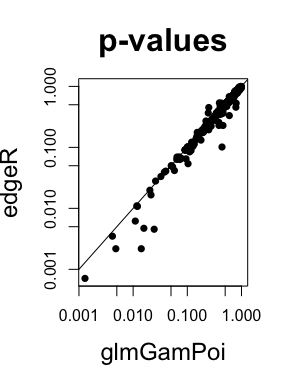
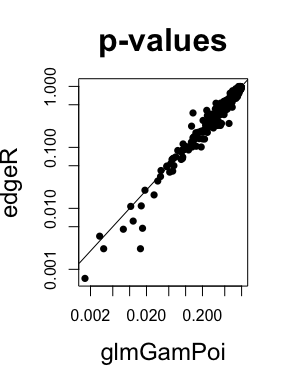
Update README and vignette

diff --git a/README.md b/README.md
@@ -121,28 +121,28 @@ summary(fit)
 #> The design formula is: Y~1
 #> 
 #> Beta:
-#>             Min 1st Qu. Median 3rd Qu.  Max
-#> Intercept -8.38   -6.43  -3.77   -2.46 1.01
+#>             Min 1st Qu. Median 3rd Qu.   Max
+#> Intercept -8.51   -6.57  -3.91   -2.59 0.903
 #> 
 #> deviance:
-#>   Min 1st Qu. Median 3rd Qu.  Max
-#>  16.5    89.3    681    1695 5750
+#>  Min 1st Qu. Median 3rd Qu.  Max
+#>   14    86.8    657    1686 5507
 #> 
 #> overdispersion:
-#>  Min 1st Qu. Median 3rd Qu.   Max
-#>    0       0  0.388    1.15 15724
+#>  Min  1st Qu. Median 3rd Qu.   Max
+#>    0 1.65e-13  0.288    1.84 24687
 #> 
 #> Shrunken quasi-likelihood overdispersion:
 #>    Min 1st Qu. Median 3rd Qu.  Max
-#>  0.739   0.994      1    1.04 7.89
+#>  0.707   0.991      1    1.04 7.45
 #> 
 #> size_factors:
 #>    Min 1st Qu. Median 3rd Qu.  Max
-#>  0.402   0.969      1    1.05 1.75
+#>  0.117   0.738   1.01    1.32 14.5
 #> 
 #> Mu:
-#>       Min 1st Qu. Median 3rd Qu. Max
-#>  9.24e-05 0.00158 0.0229  0.0871 4.8
+#>       Min 1st Qu. Median 3rd Qu.  Max
+#>  2.34e-05 0.00142 0.0185  0.0779 35.8
 ```
 
 # Benchmark
@@ -183,14 +183,14 @@ bench::mark(
 #> # A tibble: 4 x 6
 #>   expression               min   median `itr/sec` mem_alloc `gc/sec`
 #>   <bch:expr>          <bch:tm> <bch:tm>     <dbl> <bch:byt>    <dbl>
-#> 1 glmGamPoi_in_memory 875.14ms 917.36ms    0.884   462.41MB    2.95 
-#> 2 glmGamPoi_on_disk      3.92s    4.06s    0.243   839.92MB    1.37 
-#> 3 DESeq2                19.95s   20.48s    0.0489    1.15GB    0.424
-#> 4 edgeR                  5.48s    6.12s    0.169     1.19GB    0.843
+#> 1 glmGamPoi_in_memory    1.03s    1.11s    0.895   508.84MB    3.28 
+#> 2 glmGamPoi_on_disk      4.11s    4.18s    0.234   837.42MB    1.32 
+#> 3 DESeq2                20.11s   20.23s    0.0494    1.16GB    0.396
+#> 4 edgeR                  5.37s    5.42s    0.180     1.19GB    1.50
 ```
 
-On this dataset, `glmGamPoi` is more than 6 times faster than `edgeR`
-and more than 20 times faster than `DESeq2`. `glmGamPoi` does **not**
+On this dataset, `glmGamPoi` is more than 5 times faster than `edgeR`
+and more than 18 times faster than `DESeq2`. `glmGamPoi` does **not**
 use approximations to achieve this performance increase. The performance
 comes from an optimized algorithm for inferring the overdispersion for
 each gene. It is tuned for datasets typically encountered in single
@@ -210,13 +210,12 @@ fit <- glm_gp(pbmcs_subset, design = model_matrix, on_disk = FALSE)
 dds <- DESeq2::DESeqDataSetFromMatrix(pbmcs_subset, 
                         colData = data.frame(name = seq_len(4340)),
                         design = ~ 1)
-dds <- DESeq2::estimateSizeFactors(dds, "poscounts")
+sizeFactors(dds)  <- fit$size_factors
 dds <- DESeq2::estimateDispersions(dds, quiet = TRUE)
 dds <- DESeq2::nbinomWaldTest(dds, minmu = 1e-6)
 
 #edgeR
-edgeR_data <- edgeR::DGEList(pbmcs_subset)
-edgeR_data <- edgeR::calcNormFactors(edgeR_data)
+edgeR_data <- edgeR::DGEList(pbmcs_subset, lib.size = fit$size_factors)
 edgeR_data <- edgeR::estimateDisp(edgeR_data, model_matrix)
 edgeR_fit <- edgeR::glmFit(edgeR_data, design = model_matrix)
 ```
@@ -258,12 +257,12 @@ res <- test_de(fit, reduced_design = ~ 1)
 # Look at first 6 genes
 head(res)
 #>              name      pval  adj_pval f_statistic df1      df2 lfc
-#> 1 ENSG00000126457 0.4540540 0.8928885  0.56061073   1 4431.149  NA
-#> 2 ENSG00000109832 0.5836619 0.9151704  0.30039595   1 4431.149  NA
-#> 3 ENSG00000237339 0.2572395 0.8123352  1.28388371   1 4431.149  NA
-#> 4 ENSG00000075234 0.3812221 0.8776658  0.76691013   1 4431.149  NA
-#> 5 ENSG00000161057 0.8507729 0.9924364  0.03539793   1 4431.149  NA
-#> 6 ENSG00000151366 0.4037263 0.8776658  0.69733318   1 4431.149  NA
+#> 1 ENSG00000126457 0.2385897 0.8863222 1.389282669   1 4420.177  NA
+#> 2 ENSG00000109832 0.6491580 0.9275674 0.206991636   1 4420.177  NA
+#> 3 ENSG00000237339 0.4375426 0.9053288 0.602828102   1 4420.177  NA
+#> 4 ENSG00000075234 0.3118470 0.8877737 1.023070956   1 4420.177  NA
+#> 5 ENSG00000161057 0.9429562 0.9870835 0.005120673   1 4420.177  NA
+#> 6 ENSG00000151366 0.5245736 0.9225491 0.404956210   1 4420.177  NA
 ```
 
 The p-values agree well with the ones that `edgeR` is calculating. This
@@ -309,11 +308,11 @@ test_de(fit, contrast = Group1 - Group2,
         pseudobulk_by = sample_labels, 
         subset_to = cell_type_labels == "T-cells",
         n_max = 4, sort_by = pval, decreasing = FALSE)
-#>                name       pval  adj_pval f_statistic df1      df2        lfc
-#> 110 ENSG00000134539 0.04960240 0.9999771    5.284968   1 8.250891  11.065413
-#> 218 ENSG00000158411 0.05579166 0.9999771    4.948362   1 8.250891 -15.112191
-#> 300 ENSG00000188243 0.05654532 0.9999771    4.910629   1 8.250891   4.728711
-#> 74  ENSG00000217128 0.07338284 0.9999771    4.204576   1 8.250891  13.096497
+#>                name       pval adj_pval f_statistic df1     df2        lfc
+#> 218 ENSG00000158411 0.04705062        1    5.419094   1 8.34284 -15.892119
+#> 300 ENSG00000188243 0.04992313        1    5.246766   1 8.34284   4.053388
+#> 110 ENSG00000134539 0.05867890        1    4.790498   1 8.34284  10.438251
+#> 299 ENSG00000143819 0.07401184        1    4.169118   1 8.34284 -42.754649
 ```
 
 # Session Info
@@ -336,14 +335,14 @@ sessionInfo()
 #> [8] methods   base     
 #> 
 #> other attached packages:
-#>  [1] TENxPBMCData_1.6.0          HDF5Array_1.16.0           
+#>  [1] TENxPBMCData_1.6.0          HDF5Array_1.16.1           
 #>  [3] rhdf5_2.32.0                SingleCellExperiment_1.10.1
-#>  [5] DelayedMatrixStats_1.10.0   SummarizedExperiment_1.18.1
-#>  [7] DelayedArray_0.14.0         matrixStats_0.56.0-9000    
+#>  [5] DelayedMatrixStats_1.10.1   SummarizedExperiment_1.18.1
+#>  [7] DelayedArray_0.14.0         matrixStats_0.56.0         
 #>  [9] Biobase_2.48.0              GenomicRanges_1.40.0       
 #> [11] GenomeInfoDb_1.24.0         IRanges_2.22.1             
 #> [13] S4Vectors_0.26.0            BiocGenerics_0.34.0        
-#> [15] glmGamPoi_1.1.7            
+#> [15] glmGamPoi_1.1.9            
 #> 
 #> loaded via a namespace (and not attached):
 #>  [1] bitops_1.0-6                  bit64_0.9-7                  
@@ -387,6 +386,6 @@ sessionInfo()
 #> [77] xtable_1.8-4                  later_1.0.0                  
 #> [79] survival_3.1-12               tibble_3.0.1                 
 #> [81] AnnotationDbi_1.50.0          memoise_1.1.0                
-#> [83] ellipsis_0.3.0                interactiveDisplayBase_1.26.0
+#> [83] ellipsis_0.3.0                interactiveDisplayBase_1.26.3
 #> [85] BiocStyle_2.16.0
 ```
